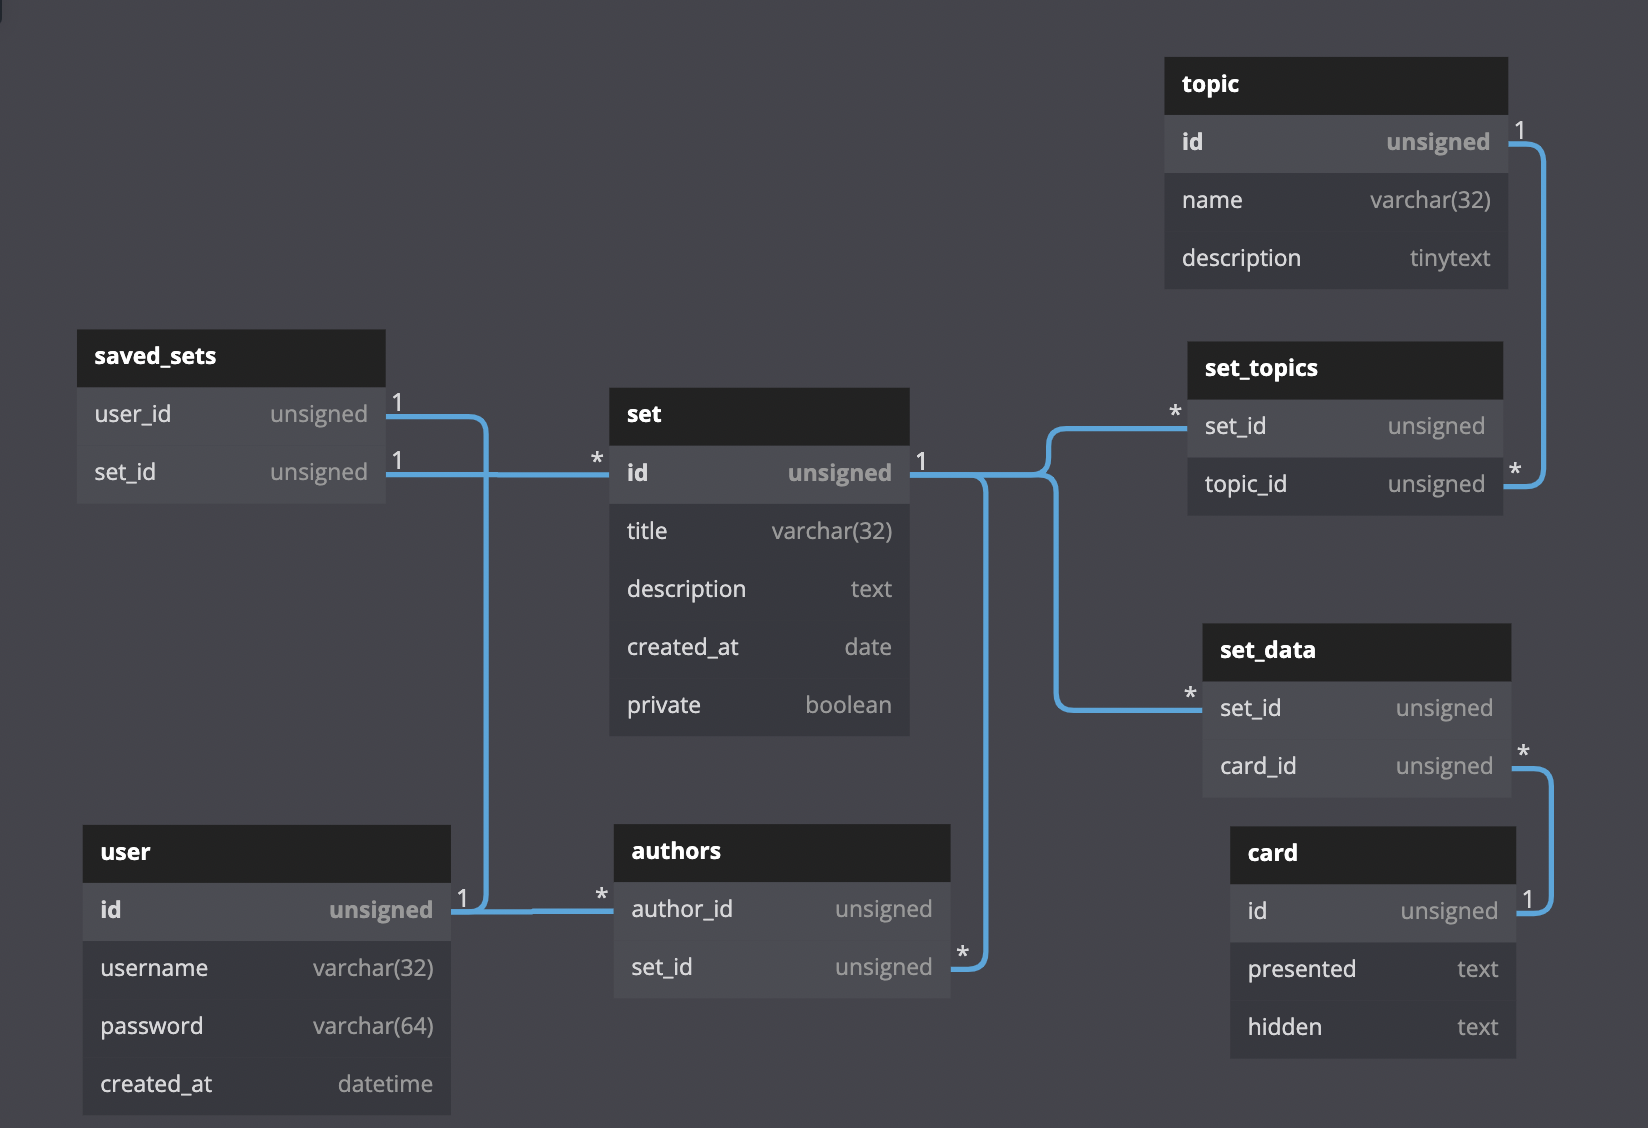
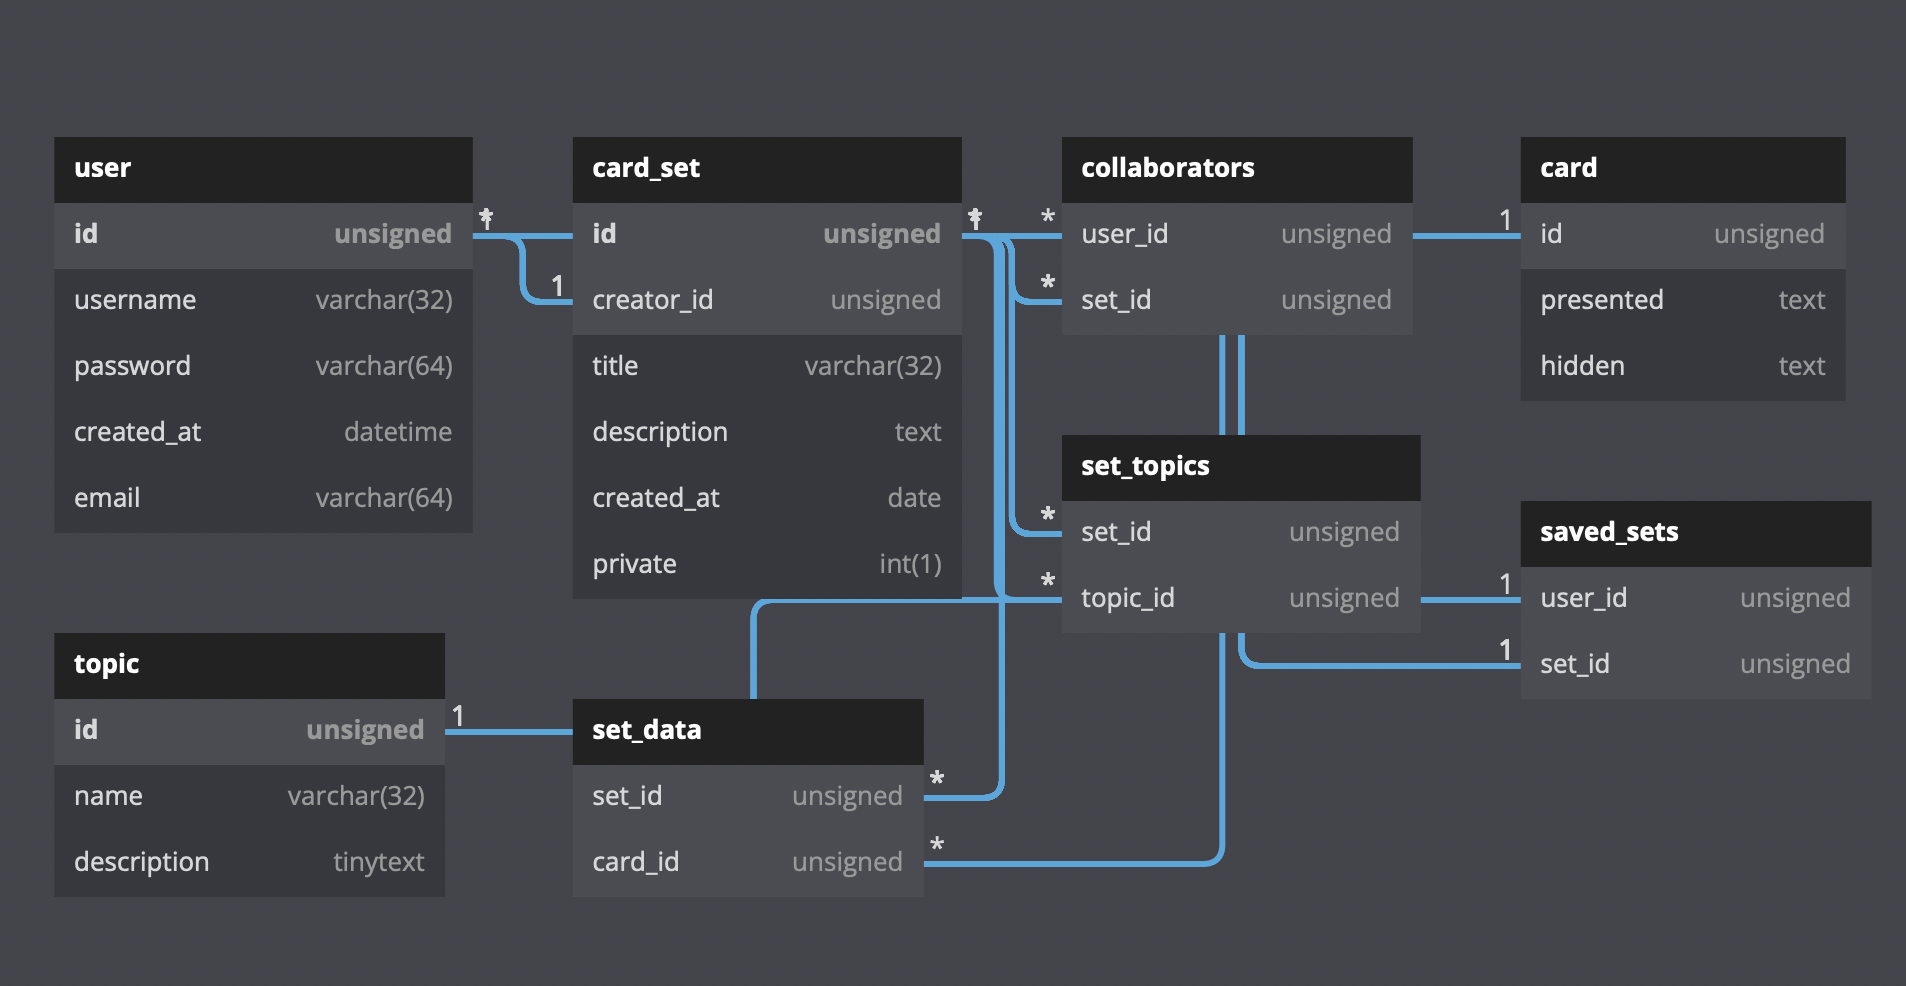
Update diagram and README

diff --git a/Backend/README.md b/Backend/README.md
@@ -22,7 +22,7 @@ Table card_set {
   title varchar(32)
   description text
   created_at date
-  private TINYTEXT(1) // this is a boolean
+  private int(1) // this is a boolean
 }
 
 // A set can be collaborative
@@ -64,9 +64,11 @@ Table saved_sets {
 ```sql
 CREATE TABLE user (id BIGINT UNSIGNED AUTO_INCREMENT, username varchar(32), password varchar(32), created_at DATETIME, email varchar(64), PRIMARY KEY(id));
 
-INSERT INTO user (username, password, created_at) VALUES("defnotneal", "abcd123", NOW());
+INSERT INTO user (username, password, created_at, email) VALUES("defnotneal", "abcd123", NOW(), "my.email@mail.edu");
 
-CREATE TABLE card_set (id BIGINT UNSIGNED AUTO_INCREMENT, title varchar(32), description TEXT, created_at DATETIME, private TINYINT(1), PRIMARY KEY(id));
+CREATE TABLE card_set (id BIGINT UNSIGNED AUTO_INCREMENT, title varchar(32), description TEXT, created_at DATETIME, private TINYINT(1), PRIMARY KEY(id), creator_id BIGINT);
+
+ALTER TABLE card_set ADD CONSTRAINT FK_creator_id FOREIGN KEY (creator_id) REFERENCES user(id);
 
 CREATE TABLE topic (id BIGINT UNSIGNED AUTO_INCREMENT, name VARCHAR(32), DESCRIPTION TINYTEXT, PRIMARY KEY(id));
 
@@ -118,7 +120,10 @@ CREATE TABLE set_topics (
 );
 ```
 
-# Endpoints
-### POST /auth/login
-### POST /auth/register
-### POST /verify-token/
+
+### Endpoints (an incomplete list):
+POST /auth/login \
+POST /auth/register \
+POST /auth/check-token-active \
+POST /renew-token \
+GET /card/{id}
